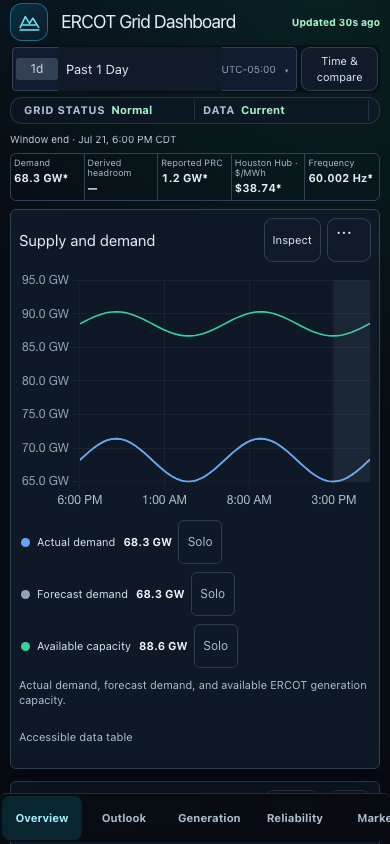
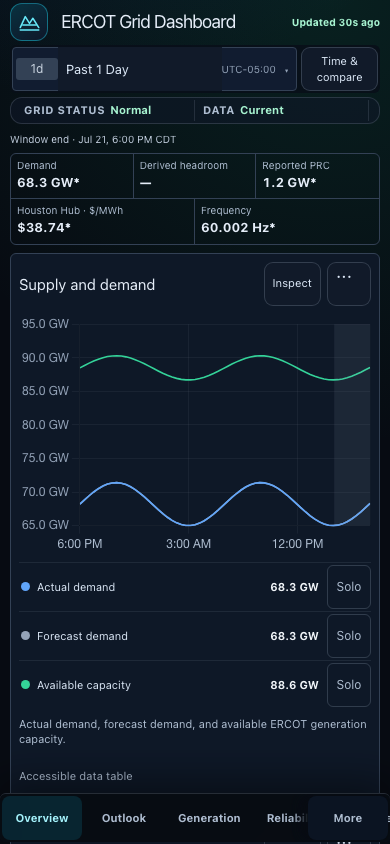
Fix narrow dashboard layouts and shared chart controls

diff --git a/frontend/src/dashboard/overview.css b/frontend/src/dashboard/overview.css
@@ -160,7 +160,8 @@
   background: #143348;
 }
 .homepage-price-select {
-  display: flex;
+  display: grid;
+  grid-template-columns: max-content minmax(0, 1fr);
   align-items: center;
   gap: 8px;
   font-size: 12px;
@@ -260,6 +261,13 @@
   padding: 2px 10px;
   min-height: 24px;
 }
+@media (max-width: 1100px) {
+  .homepage-readings > div {
+    flex-direction: column;
+    align-items: flex-start;
+    gap: 2px;
+  }
+}
 @media (max-width: 767px) {
   .homepage-readings .homepage-desktop-price-unit {
     display: none;
@@ -349,6 +357,41 @@
   }
   .homepage-workspace .chart-card-overview:not(.chart-card-inspect) .legend-row {
     min-height: 28px;
+    display: grid;
+    grid-template-columns: minmax(0, 1fr) auto 44px;
+    width: 100%;
+    align-items: center;
+    gap: 8px;
+    border-top: 1px solid rgba(148, 163, 184, 0.12);
+  }
+  .homepage-workspace .chart-card-overview:not(.chart-card-inspect) .series-legend.legend-compact {
+    display: grid;
+    gap: 0;
+  }
+  .homepage-workspace .legend-latest {
+    white-space: nowrap;
+  }
+  .homepage-workspace .legend-swatch {
+    flex-shrink: 0;
+  }
+  .homepage-ranking td,
+  .homepage-ranking th {
+    padding: 2px 4px;
+  }
+  .homepage-ranking td button {
+    width: 100%;
+    min-height: 44px;
+  }
+  .homepage-ranking select {
+    min-height: 44px;
+    border: 1px solid #334155;
+    border-radius: 6px;
+    background: #0b1422;
+  }
+  .homepage-engineering summary {
+    min-height: 44px;
+    line-height: 1.4;
+    overflow-wrap: anywhere;
   }
   .homepage-workspace .chart-card-overview:not(.chart-card-inspect) .legend-toggle {
     min-height: 44px;
@@ -356,5 +399,31 @@
   .homepage-workspace .chart-card-overview:not(.chart-card-inspect) .legend-solo {
     min-height: 44px;
     min-width: 44px;
+  }
+}
+@media (max-width: 420px) {
+  .homepage-readings {
+    grid-template-columns: repeat(6, minmax(0, 1fr));
+  }
+  .homepage-readings > div {
+    grid-column: span 2;
+    padding: 6px;
+  }
+  .homepage-readings > div:nth-child(n + 4) {
+    grid-column: span 3;
+    border-top: 1px solid #334155;
+  }
+  .homepage-readings > div:nth-child(3) {
+    border-right: 0;
+  }
+  .homepage-readings strong {
+    font-size: 13px;
+  }
+  .homepage-readings span {
+    font-size: 10px;
+  }
+  .dashboard-shell:has(.homepage-workspace) .status-strip-item {
+    flex-wrap: wrap;
+    gap: 2px 5px;
   }
 }

diff --git a/e2e/homepage-responsive.spec.ts b/e2e/homepage-responsive.spec.ts
@@ -1,0 +1,41 @@
+import { expect, test } from "@playwright/test";
+import { installMobileApi } from "./mobile-fixtures";
+
+for (const width of [320, 390, 512, 700, 834]) {
+  test(`homepage controls remain contained at ${width}px`, async ({ page }) => {
+    await page.setViewportSize({ width, height: 844 });
+    await installMobileApi(page);
+    await page.goto("/?view=overview&range=259200&live=1&legend=compact");
+    const card = page.locator('[data-chart-id="supply-demand"]');
+    await expect(card.locator("canvas")).toHaveAttribute("data-chart-ready", "true");
+    expect(await page.evaluate(() => document.documentElement.scrollWidth)).toBeLessThanOrEqual(
+      width,
+    );
+    const controls = page.getByLabel("Time-aligned grid readings", { exact: true });
+    const boxes = await controls.locator("strong").evaluateAll((elements) =>
+      elements.map((element) => ({
+        value: element.getBoundingClientRect().toJSON(),
+        cell: element.parentElement!.getBoundingClientRect().toJSON(),
+      })),
+    );
+    for (const { value, cell } of boxes) {
+      expect(value.right).toBeLessThanOrEqual(cell.right + 1);
+    }
+    if (width <= 700) {
+      const nav = page.locator(".mobile-section-nav");
+      const more = await nav.getByRole("button", { name: "More views", exact: true }).boundingBox();
+      expect(more!.x).toBeGreaterThanOrEqual(0);
+      expect(more!.x + more!.width).toBeLessThanOrEqual(width + 1);
+      const rows = await card
+        .locator(".legend-row")
+        .evaluateAll((elements) =>
+          elements.map((element) => element.getBoundingClientRect().toJSON()),
+        );
+      for (const row of rows) expect(row.width).toBeGreaterThan(width - 60);
+    }
+    await page
+      .getByRole("combobox", { name: "History point", exact: true })
+      .selectOption({ label: "West Hub" });
+    await expect(page.getByRole("heading", { name: "West Hub · settlement price" })).toBeVisible();
+  });
+}

diff --git a/frontend/src/dashboard/ChartCard.tsx b/frontend/src/dashboard/ChartCard.tsx
@@ -533,19 +533,33 @@ export function ChartCard({
             max: dynamic.current.time.end * 1000,
             time: { tooltipFormat: "MMM d, yyyy HH:mm:ss" },
             ticks: {
-              callback: (value) =>
-                new Intl.DateTimeFormat("en-US", {
+              callback: (value) => {
+                if (mobile && dynamic.current.time.rangeSeconds > 86400) {
+                  return [
+                    new Intl.DateTimeFormat("en-US", {
+                      timeZone: "America/Chicago",
+                      month: "short",
+                      day: "numeric",
+                    }).format(Number(value)),
+                    new Intl.DateTimeFormat("en-US", {
+                      timeZone: "America/Chicago",
+                      hour: "numeric",
+                    }).format(Number(value)),
+                  ];
+                }
+                return new Intl.DateTimeFormat("en-US", {
                   timeZone: "America/Chicago",
                   hour: "numeric",
                   minute: "2-digit",
                   ...(dynamic.current.time.rangeSeconds > 86400
                     ? ({ month: "short", day: "numeric" } as const)
                     : {}),
-                }).format(Number(value)),
+                }).format(Number(value));
+              },
               autoSkip: true,
               color: "#aebdd0",
               maxRotation: 0,
-              maxTicksLimit: mobile ? 4 : presentation === "featured" ? 7 : 6,
+              maxTicksLimit: mobile ? 3 : presentation === "featured" ? 7 : 6,
               sampleSize: 8,
             },
             grid: { color: "rgba(148, 163, 184, 0.08)" },

diff --git a/e2e/homepage.spec.ts b/e2e/homepage.spec.ts
@@ -19,7 +19,8 @@ for (const viewport of [
       return;
     }
     const plot = await page.locator('[data-chart-id="supply-demand"] canvas').boundingBox();
-    expect(plot!.y).toBeLessThanOrEqual(viewport.width === 390 ? 280 : 240);
+    // Two readable rows of phone readings still leave the full first plot above the fold.
+    expect(plot!.y).toBeLessThanOrEqual(viewport.width === 390 ? 320 : 240);
     expect(plot!.height).toBeGreaterThanOrEqual(viewport.width === 390 ? 220 : 280);
     await page.screenshot({ path: `docs/overview-chart-first/after-${viewport.width}.png` });
     await expect(page.locator('[data-chart-id="fuel-mix"]')).toHaveCount(1);

diff --git a/frontend/src/styles.css b/frontend/src/styles.css
@@ -3574,6 +3574,10 @@ footer p {
   .chart-card-header {
     gap: 8px;
   }
+  .chart-card-header > div:first-child {
+    min-width: 0;
+    overflow-wrap: anywhere;
+  }
 
   .chart-card h3 {
     font-size: 1rem;
@@ -3689,6 +3693,13 @@ footer p {
     font-size: 0.75rem;
     font-weight: 700;
     line-height: 1.05;
+  }
+  .mobile-section-nav button:last-child {
+    position: sticky;
+    right: 0;
+    margin-left: auto;
+    background: #0b1422;
+    box-shadow: -8px 0 12px #070b12;
   }
 
   footer {

diff --git a/docs/overview-chart-first/acceptance-report.md b/docs/overview-chart-first/acceptance-report.md
@@ -38,7 +38,7 @@ The shared interpretation resolver no longer draws historical ratio bands from t
 
 - `before-1440.png` / `after-1440.png` and `before-390.png` / `after-390.png`: same frozen clock, explicit live 24-hour window, compact legend, viewport and original 64-point fixture. This coarse fixture correctly withholds native headroom. A storage-fixture substring bug was separately corrected (charging had matched discharging); first-screen balance samples are unchanged.
 - `performance.json` and `performance-baseline.json`: production builds, five cold runs, browser version, throttling, 200 cursor samples, hover request count. API fixtures are route-fulfilled: this measures frontend work, not production API latency. Two-animation-frame cursor timing is a conservative proxy, not a compositor paint timestamp.
-- Geometry tests require first balance canvas y≤240 desktop / y≤280 phone, height≥280 / ≥220, and no document-level horizontal overflow.
+- Geometry tests require first balance canvas y≤240 desktop / y≤320 phone, height≥280 / ≥220, and no document-level horizontal overflow. Phone readings now use two readable rows below 420px.
 - Live local receiver-backed preview was inspected with populated demand, matched headroom, PRC, generation, storage, frequency and price snapshots. This demonstrates local support, not production deployment health.
 - Exact-head results are recorded in the companion verification summary. Visual baselines are platform-specific: macOS Chromium evidence does not certify Linux or WebKit screenshots.
 
